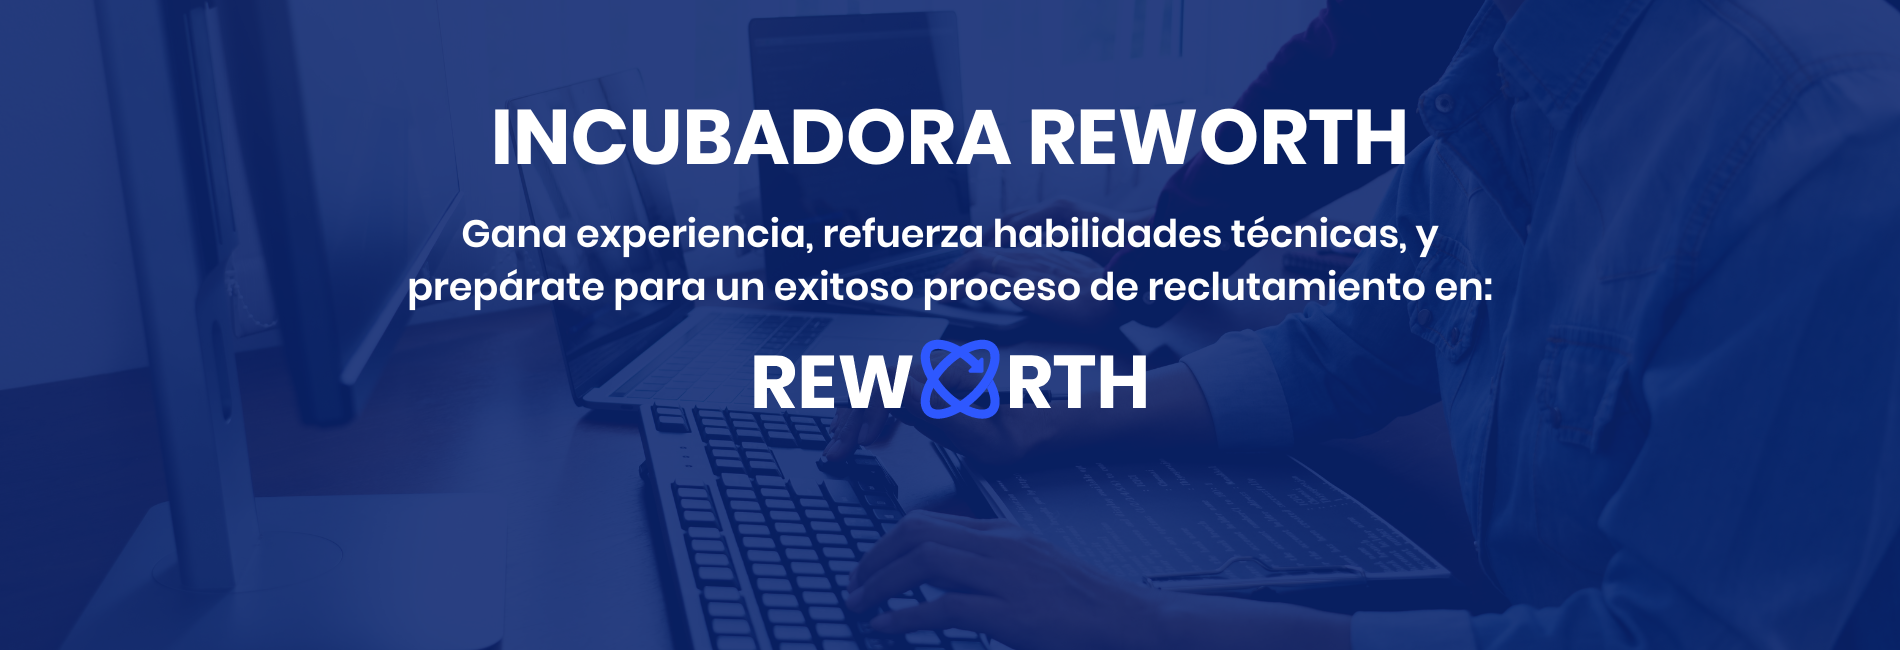
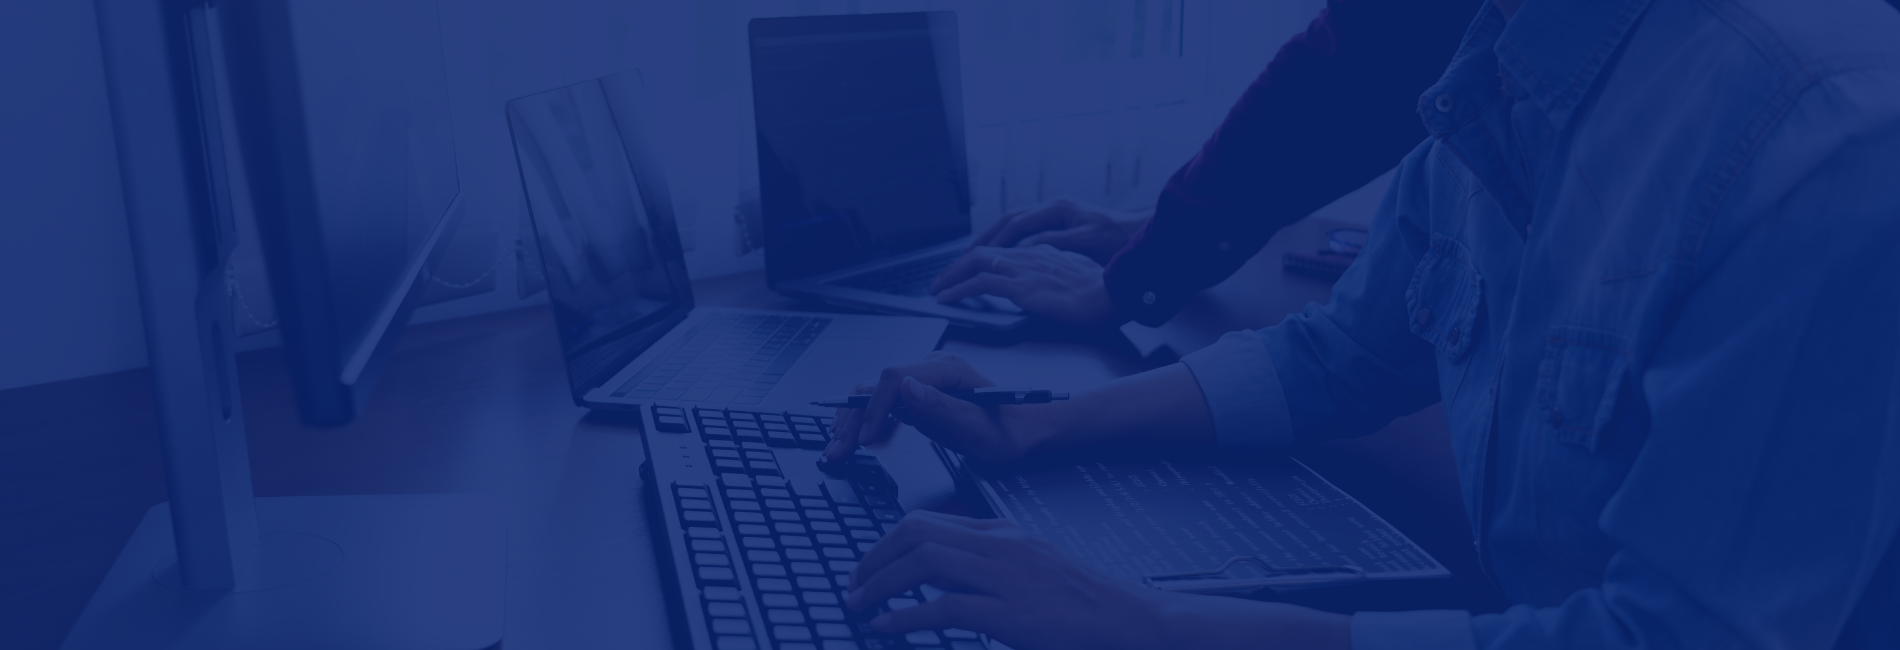
cambios al sitio

diff --git a/index.html b/index.html
@@ -29,7 +29,31 @@
       <div class="container text-center">
         <div class="row">
           <div class="col-12 col-md-8 offset-md-2">
-            <a class="btn-b-ne fst-italic fw-bold" href="#form"><code>&lt;</code>Postular Aquí<code>&gt;</code></a>
+            <h1 class="fw-bold">INCUBADORA REWORTH</h1>
+            <p>Gana experiencia, refuerza habilidades técnicas, y prepárate para un exitoso proceso de reclutamiento</p>
+            <a class="btn-b-ne fw-bold" href="#form"><code>&lt;</code>Postular Aquí<code>&gt;</code></a>
+          </div>
+        </div>
+      </div>
+    </div>
+  </section>
+
+
+  <section class="que-es py-5">
+    <div class="que-es-text">
+      <div class="container">
+        <div class="row">
+          <div class="col-12 col-md-6">
+            <h3 class="py-3">¿En qué consiste?</h3>
+            <p>Adquiere experiencia laboral.</p>
+            <p>Participa en proyectos bajo una metodología real de trabajo.</p>
+            <p>Genera confianza trabaja en equipo y <span class="fw-bold">podrás ser contratado por el equipo Reworth.</span> </p>
+            <p>3 meses de trabajo práctico, presentaciones a clientes reales, reuniones de sprint, certificaciones y bonificaciones.</p>
+            <small>*La participación del programa no tiene costo</small>
+            
+          </div>
+          <div class="col-12 col-md-6 align-self-center text-center">
+            <img src="assets/img/reworth1.png" alt="Reworth" width="80%">
           </div>
         </div>
       </div>
@@ -41,12 +65,12 @@
       <div class="container text-center py-5">
         <div class="row">
           <div class="col-12">
-            <h3 class="mt-5">¿En qué consiste?</h3>
+            <h3>¿Qué es REWORTH y cómo funciona?</h3>
           </div>
-          <div class="col-12 col-md-8 offset-md-2 pt-4 pb-5">
-            <p>Participa en los proyectos de Reworth</p>
-            <p>Gana experiencia, genera confianza, y accede a un trabajo TI.</p>
-            <p>3 meses de trabajo práctico, presentaciones a clientes reales, reuniones de sprint, certificaciones y bonificaciones</p>
+          <div class="col-12 col-md-8 offset-md-2 pt-4 ">
+            <p>REWORTH, es una plataforma para incentivar las compras de primera vez y recompensar las compras recurrentes, a través del cashback.
+              REWORTH, puede conectar a cualquier negocio con instituciones financieras (bancos), para que tu negocio pueda aparecer en sus apps. Y tu negocio sea expuesto ante cientos de miles de tarjetahabientes
+              </p>
           </div>
         </div>
       </div>
@@ -90,20 +114,25 @@
         <div class="col-12">
           <h2 class="fw-bold py-5">Beneficios:</h2>
         </div>
-        <div class="col-12 col-md-4 pb-5">
+        <div class="col-12 col-md-3 pb-5">
           <img src="assets/img/icono-reloj.png" alt="" class="pb-4">
           <h4 class="fw-bold ">Flexibilidad</h4>
           <p>¿Tienes un trabajo actual? Tenemos una modalidad part-time y el avance será en tus tiempos.</p>
         </div>
-        <div class="col-12 col-md-4 pb-5">
+        <div class="col-12 col-md-3 pb-5">
           <img src="assets/img/icono-handshake.png" alt="" class="pb-4">
           <h4 class="fw-bold ">Networking</h4>
           <p>Trabaja junto a profesionales del mercado que te enseñarán cómo funcionan los equipos de trabajo y sus distintas metodologías.</p>
         </div>
-        <div class="col-12 col-md-4 pb-5">
+        <div class="col-12 col-md-3 pb-5">
           <img src="assets/img/icono-gears.png" alt="" class="pb-4">
           <h4 class="fw-bold ">Experiencia</h4>
           <p>Refuerza tus habilidades técnicas, trabaja en equipo y presenta tus avances en un entorno real de trabajo.</p>
+        </div>
+        <div class="col-12 col-md-3 pb-5">
+          <img src="assets/img/icono-gears.png" alt="" class="pb-4">
+          <h4 class="fw-bold ">Bonificación</h4>
+          <p>Este programa es gratuito y las personas que finalicen cumpliendo los requerimientos podrán optar por bonos de certificación y/o bonos por contratación.</p>
         </div>
       </div>
     </div>
@@ -118,7 +147,6 @@
       </div>
       <div class="row pb-5">
         <div class="col-12 col-md-4">
-          <div class="">
             <h4 class="text-center fw-bold">Comencemos</h4>
             <p class="text-center"><small>Duración: 1 semana.</small></p>
             <ul>
@@ -127,9 +155,7 @@
               <li>Análisis de tu Perfil Laboral</li>
             </ul>
           </div>
-        </div>
         <div class="col-12 col-md-4">
-          <div class="">
             <h4 class="text-center fw-bold">Trabajemos</h4>
             <p class="text-center"><small>Duración: 10 semanas.</small></p>
             <ul>
@@ -138,11 +164,8 @@
               <li>Networking</li>
               <li>Feedback mensual</li>
             </ul>
-            
-          </div>
         </div>
         <div class="col-12 col-md-4">
-          <div class="">
             <h4 class="text-center fw-bold">Analicemos</h4>
             <p class="text-center"><small>Duración: 1 semana.</small></p>
             <ul>
@@ -150,8 +173,6 @@
               <li>Certificados</li>
               <li>Bonificacion monetaria</li>
             </ul>
-            
-          </div>
         </div>
       </div>
     </div>
@@ -263,7 +284,7 @@
       <div class="container">
         <div class="row">
           <div class="col-12 col-sm-6">
-            <h1 class="py-5 fw-bold display-4 text-center">TESTIMONIOS</h1>
+            <h3 class="py-5 fw-bold text-center">TESTIMONIOS</h3>
             <div class="row col-sm-8 fondo-azul">
               <h4 class="fw-bold">Wladimir Guevara,<br>Egresado C1 </h4>
             </div>
@@ -285,7 +306,7 @@
     <div class="container">
       <div class="form-text">
         <div class="row text-center py-3">
-          <h3 class="fw-bold pb-5">*Formulario de inscripcion</h3>
+          <h3 class="fw-bold pb-5">*Formulario de inscripción</h3>
         </div>
       </div>
       <div class="row">
@@ -312,7 +333,7 @@
     
     <div class="text-center p-3">
       <span class="power">Powered By</span>
-      <a class="navbar-brand " href="https://desafiolatam.com/">
+      <a class="navbar-brand" href="https://desafiolatam.com/">
         <img src="/assets/img/logo-academia.png" alt="Desafío Latam" >
       </a>
     </div>

diff --git a/css/styles.css b/css/styles.css
@@ -30,11 +30,11 @@ body {
   align-items: center;
 }
 
-.banner-text a {
+/* .banner-text a {
   margin-top: 350px;
-}
+} */
 
-@media (max-width: 768px) {
+/* @media (max-width: 768px) {
   .hero-banner-img {
     background-image: url('../assets/img/banner-mobile.png');
     width: 100%;
@@ -42,12 +42,9 @@ body {
   .banner-text a {
     margin-top: 350px;
   }
-}
+} */
 
 @media (max-width: 768px) {
-  .banner-text h1 {
-    font-size: 30px!important;
-  } 
   .banner-text h4 {
     font-size: 20px!important;
   }
@@ -55,7 +52,7 @@ body {
     font-size: 20px!important;
   }
   .banner-text p {
-    font-size: 15px!important;
+    font-size: 18px!important;
   }
 }
 
@@ -81,8 +78,7 @@ body {
 
 
 .banner-text {
-  color: #e2a30b;
-  text-shadow: 2px 2px 2px black;
+  color: #fff;
   font-family: 'Poppins', sans-serif;
 }
 
@@ -103,17 +99,51 @@ body {
   font-size: 24px;
 }
 
-.en-que-consiste-text h3 {
+.que-es {
+  background-color: #EDF3FF;
+}
+
+@media (max-width: 768px) {
+  .que-es-text h3 {
+    text-align: center;
+  }
+
+}
+
+.que-es-text h3 {
   font-family: 'Poppins', sans-serif;
   color: #2e58ff;
- 
   font-size: 36px;
   font-weight: bold;
 }
 
+.que-es-text p {
+  font-family: 'Poppins', sans-serif;
+  font-size: 18px;
+  color: #212529;
+  margin: 0;
+}
+
+.que-es-text small {
+  font-size: 18px;
+}
+
+.en-que-consiste-text h3 {
+  font-family: 'Poppins', sans-serif;
+  color: #2e58ff;
+  font-size: 36px;
+  font-weight: bold;
+}
+
+
 .en-que-consiste-text p {
   color: #212529;
   font-size: 18px;
+  font-family: 'Poppins', sans-serif;
+}
+
+.en-que-consiste-text small {
+  font-size: 16px;
   font-family: 'Poppins', sans-serif;
 }
 
@@ -164,10 +194,11 @@ body {
 
 .beneficios p {
   color: #000000;
+  font-size: 18px;
 }
 
 .beneficios h2 {
-  font-size: 46px;
+  font-size: 36px;
   color: #2e58ff;
 }
 
@@ -188,6 +219,8 @@ body {
 .conoce-programa {
   font-family: 'Poppins', sans-serif;
 }
+
+
 
 .conoce-programa h3 {
   font-size: 36px;
@@ -319,8 +352,9 @@ a {
   font-family: 'Poppins', sans-serif;
 }
 
-.testimonios h1 {
+.testimonios h3 {
   color: #2e58ff;
+  font-size: 36px;
   
 }
 
